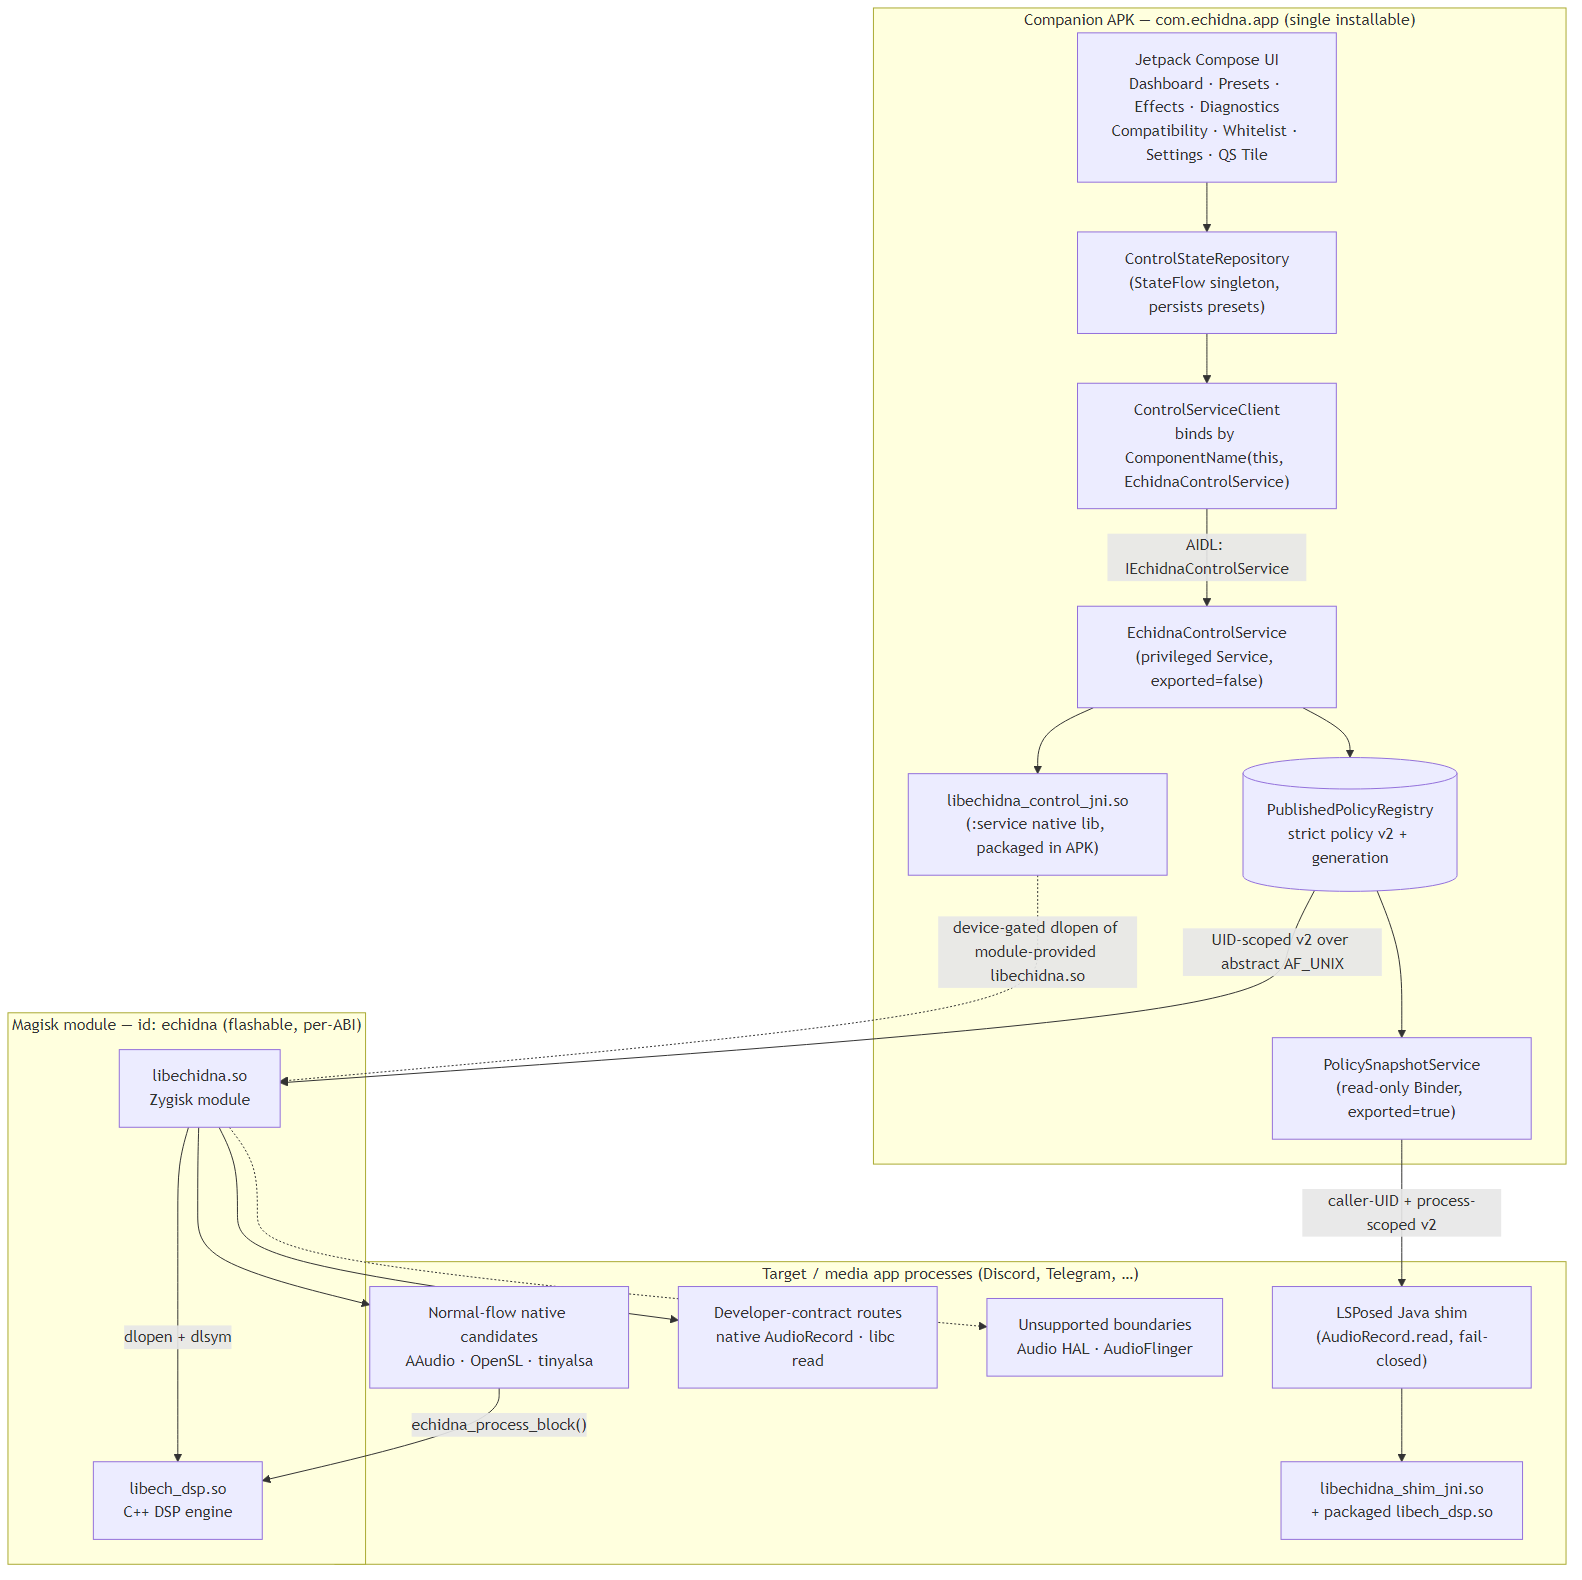
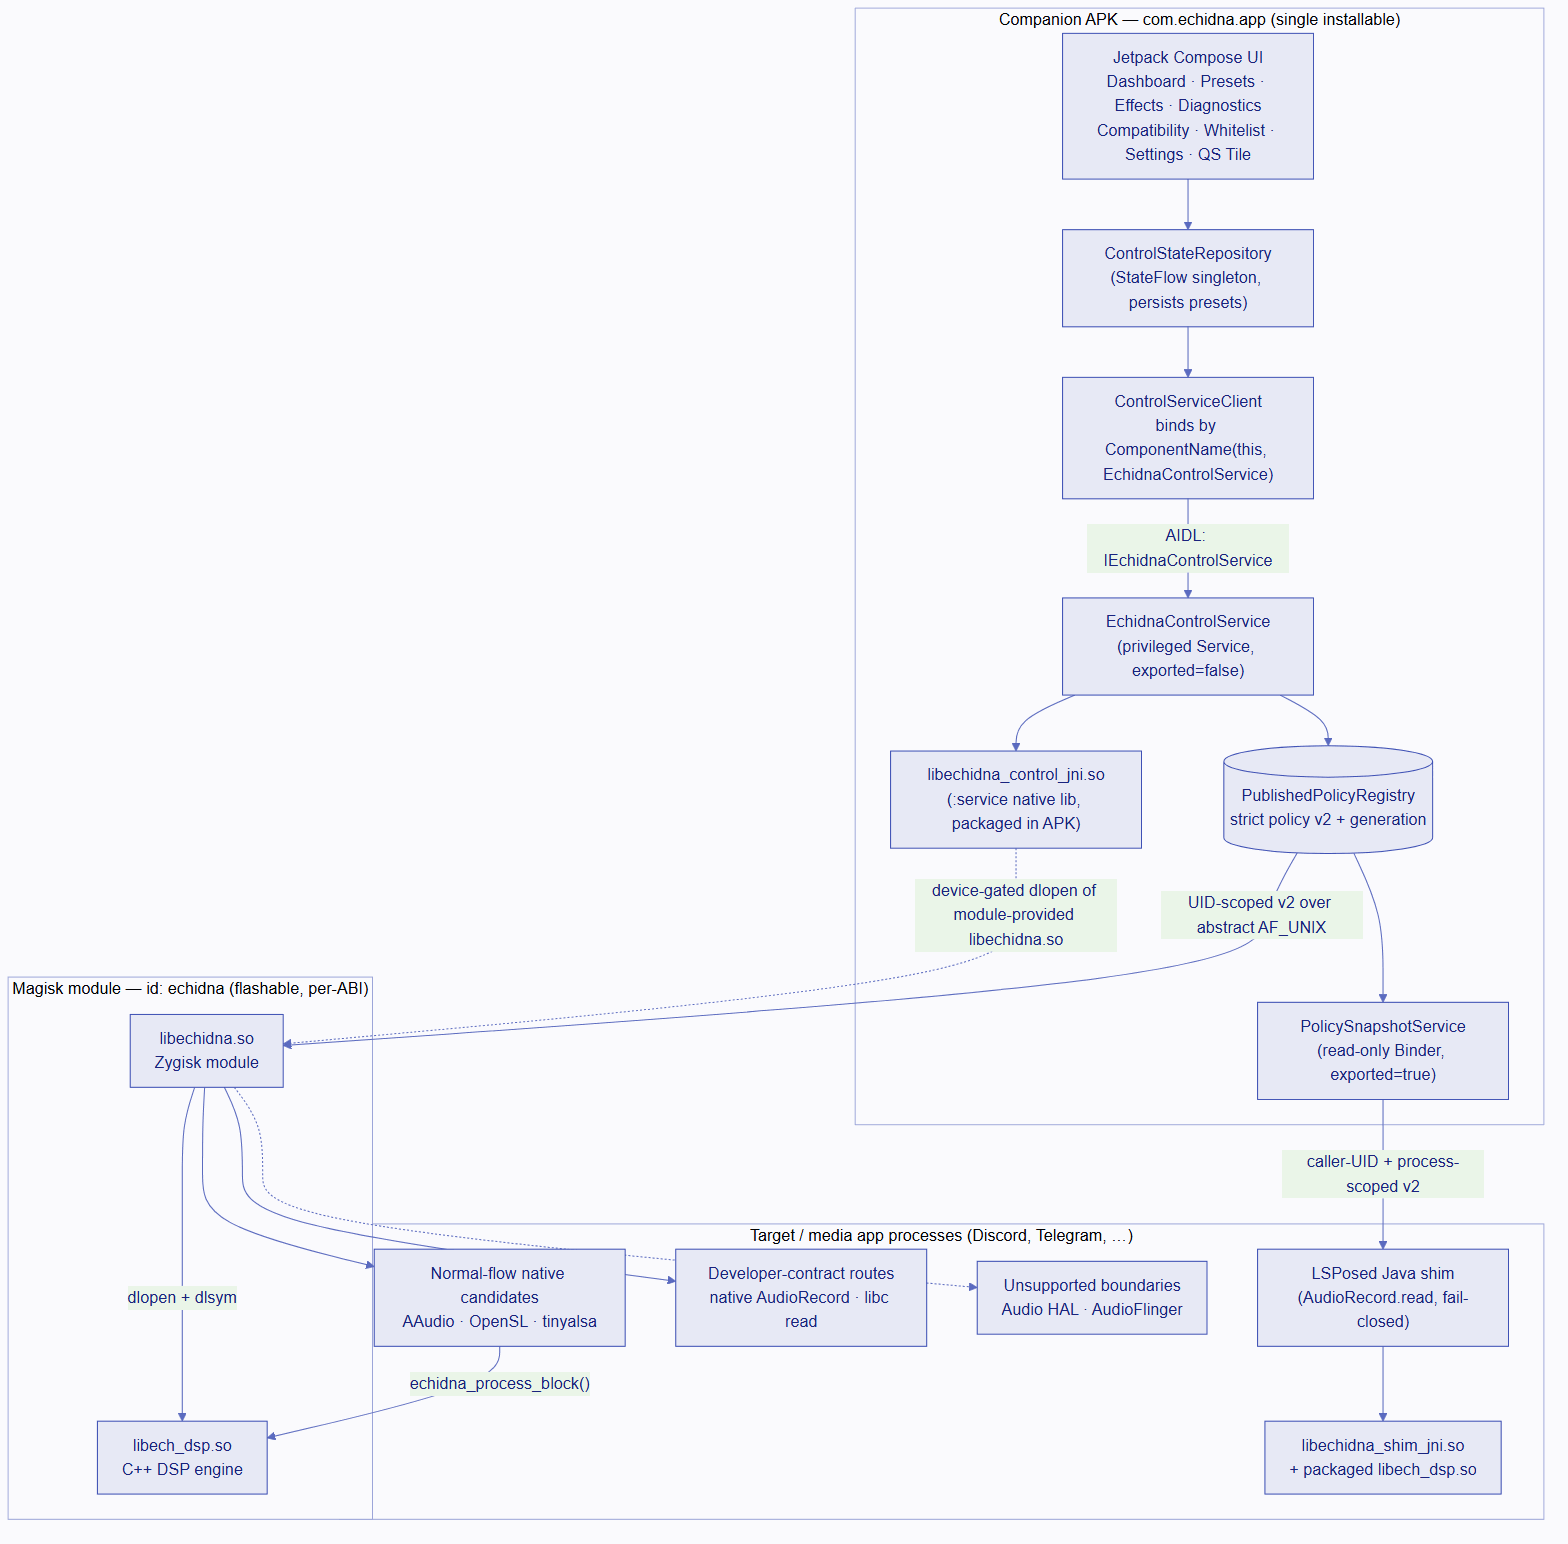
docs(diagrams): adopt S1 canonical hero PNG twin + MANIFEST row
S1 (docs/assets/** owner) delivered an optimized indigo-themed 48KB render of
architecture.md's component-overview mermaid concurrently with the gate. Replace
the gate's interim 126KB white-background render with S1's canonical asset and
add its MANIFEST caption row. Same path, so architecture.md's reference and the
in-app Help bundle are unchanged.

diff --git a/docs/assets/screenshots/MANIFEST.md b/docs/assets/screenshots/MANIFEST.md
@@ -57,3 +57,12 @@ Magisk-flash or LSPosed-injection success.
 > caption above passes the honesty rules: unrooted states say Not
 > Installed/Unavailable; the Lab is local DSP proof, never interception; nothing
 > claims a Magisk-flash/LSPosed-inject success.
+
+## Exported diagrams (PNG twins of mermaid, for in-app Help fidelity)
+
+S1 owns the PNG files under `docs/assets/diagrams/`; the authoring `.md`
+references them and the mermaid source lives beside them in the doc.
+
+| Path | Rendered from | What it shows |
+|---|---|---|
+| `assets/diagrams/architecture-overview.png` | A3's `architecture.md` component-overview mermaid fence (rendered via mermaid-cli, indigo theme, 1568x1544, ~47 KB) | The big-picture: Companion APK (Compose UI -> repo -> ControlService -> control JNI + policy registry/provider) + the flashable Magisk module (Zygisk `libechidna.so` -> `libech_dsp.so`) + target-process hook routes (normal-flow / developer-contract / unsupported boundaries) + the LSPosed shim, wired by device-gated dlopen and UID-scoped policy v2. Renders in the web docs (native mermaid) and in-app Help (this PNG twin). |